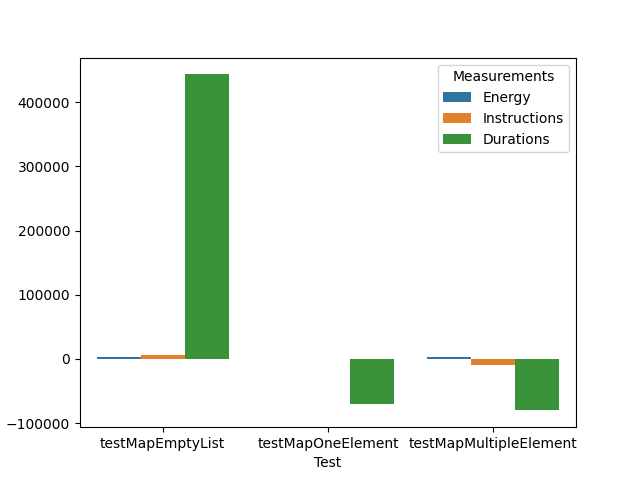
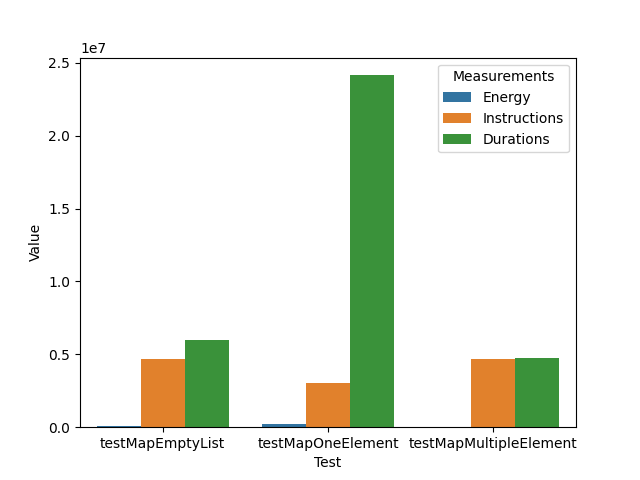
refactor: use now the energy mutation consumption instead of code changes

diff --git a/src/main/python/demo.py b/src/main/python/demo.py
@@ -264,8 +264,6 @@ tests = [
     'fr.davidson.diff_jjoules_demo.InternalListTest-testMapMultipleElement.json'
 ]
 
-warmup_test_name = 'aaaaa_warmup'
-
 output_demo_directory = 'target/demo-output/'
 output_demo_directory_v1 = output_demo_directory + 'v1/'
 output_demo_directory_v2 = output_demo_directory + 'v2/'
@@ -275,31 +273,17 @@ if __name__ == '__main__':
     # Set up V1
     delete_directory(PATH_V1)
     git_clone_folder(PATH_V1)
-    #git_reset_hard_folder(PATH_V1, SHA_V1)
     mvn_install_skip_test_build_classpath(PATH_V1)
 
     # Set up V2
     delete_directory(PATH_V2)
     git_clone_folder(PATH_V2)
     mvn_install_skip_test_build_classpath_mutate_energy(PATH_V2)
-    #git_reset_hard_folder(PATH_V2, SHA_V2)
-    #mvn_install_skip_test_build_classpath(PATH_V2)
 
     # Select tests that execute the changes
     mvn_diff_test_selection(PATH_V1, PATH_V2)
-    tests_to_execute_tmp = get_tests_to_execute(PATH_V1 + '/testsThatExecuteTheChange.csv')
-    print(tests_to_execute_tmp)
-    tests_to_execute = {}
-    for test in tests_to_execute_tmp:
-        tests_to_execute[test] = []
-        print(test)
-        for cases in tests_to_execute_tmp[test]:
-            print(cases)
-            for i in range(5):
-                tests_to_execute[test].append('aaa_' + str(i) + '_' + cases)
-            tests_to_execute[test].append(cases)
-        print(tests_to_execute)
-    
+    tests_to_execute = get_tests_to_execute(PATH_V1 + '/testsThatExecuteTheChange.csv')
+
     # Cleaning state after test selection
     mvn_clean_test_skip_test(PATH_V2)
 
